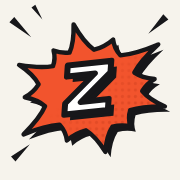
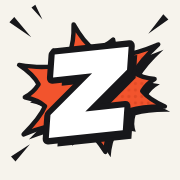
marca: icono de iOS con la Z nueva, fuente vectorial y reglas de uso
El icono de 180 px seguía con la Z pequeña dentro del estallido: ahora lleva la misma Z grande
y gruesa que los otros dos y conserva la trama y las líneas de impacto. Su fuente pasa al repo
como zascarr-completo.svg (antes solo existía el PNG). El README de la marca recoge el tamaño
mínimo (16 px), el espacio libre (¼ del lado), las tres tintas y la prueba en blanco y negro
(funciona sobre claro; sobre oscuro haría falta la versión invertida, que hoy nadie usa).

Claude-Session: https://claude.ai/code/session_01892Xp4nHTGqkmHdi9LQ8tv

Changed region(s): [[0.2222, 0.2222, 0.7778, 0.8333]]

diff --git a/src/zascarr/static/brand/README.md b/src/zascarr/static/brand/README.md
@@ -1,7 +1,7 @@
 # Marca
 
-El estallido «¡ZAS!»: una Z rotulada (blanca, contorno y sombra de tinta) dentro de un
-estallido de onomatopeya bermellón con puntas cóncavas, trama y líneas de impacto.
+El estallido «¡ZAS!»: una Z rotulada, gruesa (blanca, contorno y sombra de tinta), que
+sobresale un poco de un estallido de onomatopeya bermellón con puntas cóncavas.
 Elegido el 2026-10-20 tras cinco rondas de pruebas de iconos (los descartes y por qué
 están en `CLAUDE.md` §6, «Marca»).
 
@@ -9,26 +9,42 @@ están en `CLAUDE.md` §6, «Marca»).
 solo se lee grande: en la barra lateral, a 32 px, la Z medía unos 10 px y el contorno se comía
 el blanco, así que se veía gris y empastada. Por eso hay tres dibujos de la misma marca:
 
-- **Completo**, a 180 px: `apple-touch-icon.png`.
+- **Completo**, a 180 px: `zascarr-completo.svg`, rasterizado en `apple-touch-icon.png`. Añade la
+  trama y las líneas de impacto.
 - **De interfaz**, de 24 a 48 px: `zascarr-icono.svg`. Sin trama ni líneas, con el estallido
   más grande y el contorno más grueso.
 - **De favicon**, por debajo de 24 px: `zascarr-favicon.svg`. Sin el cuadrado de papel: en una
   pestaña clara se perdía y la Z blanca se fundía con él. El estallido es la silueta, con
   contorno de tinta para las pestañas claras.
 
-En los dos pequeños, **la Z es grande y gruesa, y sobresale un poco del estallido**
-(decisión del PO, 2026-10-21): a ese tamaño lo primero es que la Z se lea, y una Z que se
-sale nos aleja de Komga (ver Reglas). Tiene trazos más
-anchos que la del dibujo completo, relleno blanco y contorno y sombra de tinta.
+En los tres, **la Z es grande y gruesa, y sobresale un poco del estallido**
+(decisión del PO, 2026-10-21): en pequeño lo primero es que la Z se lea, y una Z que se sale
+nos aleja de Komga (ver Reglas). Tiene trazos más anchos que la primera Z de la marca, relleno
+blanco y contorno y sombra de tinta.
 
 | Fichero | Uso | Notas |
 |---|---|---|
 | `zascarr-icono.svg` | Barra lateral y cabecera (fondo del `.brand::before` en `web.css`) | 80×80, fondo papel redondeado. Dibujo de interfaz: de 24 a 48 px |
 | `zascarr-favicon.svg` | Favicon y cabecera de móvil (18 px) | Versión de 16 px propia: sin fondo, el estallido es la silueta; Z gruesa blanca con contorno y sombra de tinta, sin trama ni líneas |
 | `zascarr-favicon-32.png` | Respaldo del favicon para navegadores sin SVG | Rasterizado del anterior |
-| `apple-touch-icon.png` | Icono al añadir la app a la pantalla de inicio de iOS | 180×180 cuadrado: iOS redondea las esquinas. El único con el dibujo completo |
+| `zascarr-completo.svg` | Fuente del icono de iOS (no se sirve en ninguna página) | 80×80 cuadrado, dibujo completo |
+| `apple-touch-icon.png` | Icono al añadir la app a la pantalla de inicio de iOS | 180×180 cuadrado: iOS redondea las esquinas. Rasterizado de `zascarr-completo.svg` |
 
-Colores: bermellón `#F2542D`, trama `#C2391A`, tinta `#17171A`, papel `#F6F3EC`.
+Colores: bermellón `#F2542D`, tinta `#17171A` y blanco `#FFFFFF`; son las tres tintas de la
+marca. El papel `#F6F3EC` es el fondo del cuadrado y la trama `#C2391A` es un tono del
+bermellón, no una tinta más. Solo se usan en pantalla, así que no hay valores CMYK.
+
+Uso:
+
+- **Tamaño mínimo: 16 px**, con `zascarr-favicon.svg`.
+- **Espacio libre**: alrededor del icono, al menos ¼ de su lado (8 px a 32 px; la barra lateral
+  deja 10). Nada lo toca: ni el texto ni otro control.
+- **En blanco y negro funciona**: sobre fondo claro queda un estallido negro con la Z blanca,
+  y se reconoce a 96, 32 y 16 px (probado el 2026-10-21 en escala de grises con umbral). Sobre
+  fondo oscuro hace falta la versión invertida, con el estallido claro y la Z oscura. Ningún
+  sitio la usa hoy, así que no hay fichero; el icono de interfaz ya lleva su propio fondo de papel.
+- **Contextos probados**: la barra lateral en tema claro y oscuro, y la pestaña del navegador
+  clara y oscura, a 1× y 2×.
 
 Reglas:
 

diff --git a/CLAUDE.md b/CLAUDE.md
@@ -185,7 +185,8 @@ como marco permanente.
   `zascarr-icono.svg` sin trama ni líneas de impacto (2026-10-21: a 32 px la versión completa se
   veía gris y empastada). En ambos, la Z es grande y gruesa y sobresale un poco del estallido,
   que debe seguir viéndose (decisión del PO, 2026-10-21): así además se distingue de Komga, que
-  lleva la letra dentro de un estallido. El dibujo completo, solo en el icono de 180 px.
+  lleva la letra dentro de un estallido. La trama y las líneas de impacto, solo en el icono de 180 px. Tamaño mínimo, espacio libre y
+  versión en blanco y negro, en el README de la marca.
 - **Un botón principal por pantalla** (decidido el 2026-10-20): el amarillo es la acción que hace
   avanzar la tarea de esa pantalla y se pide con `.primary` (`button.primary`, `.btn.primary`). Un
   `type="submit"` es neutro por defecto: los botones que se repiten (uno por resultado o por tarjeta) y
